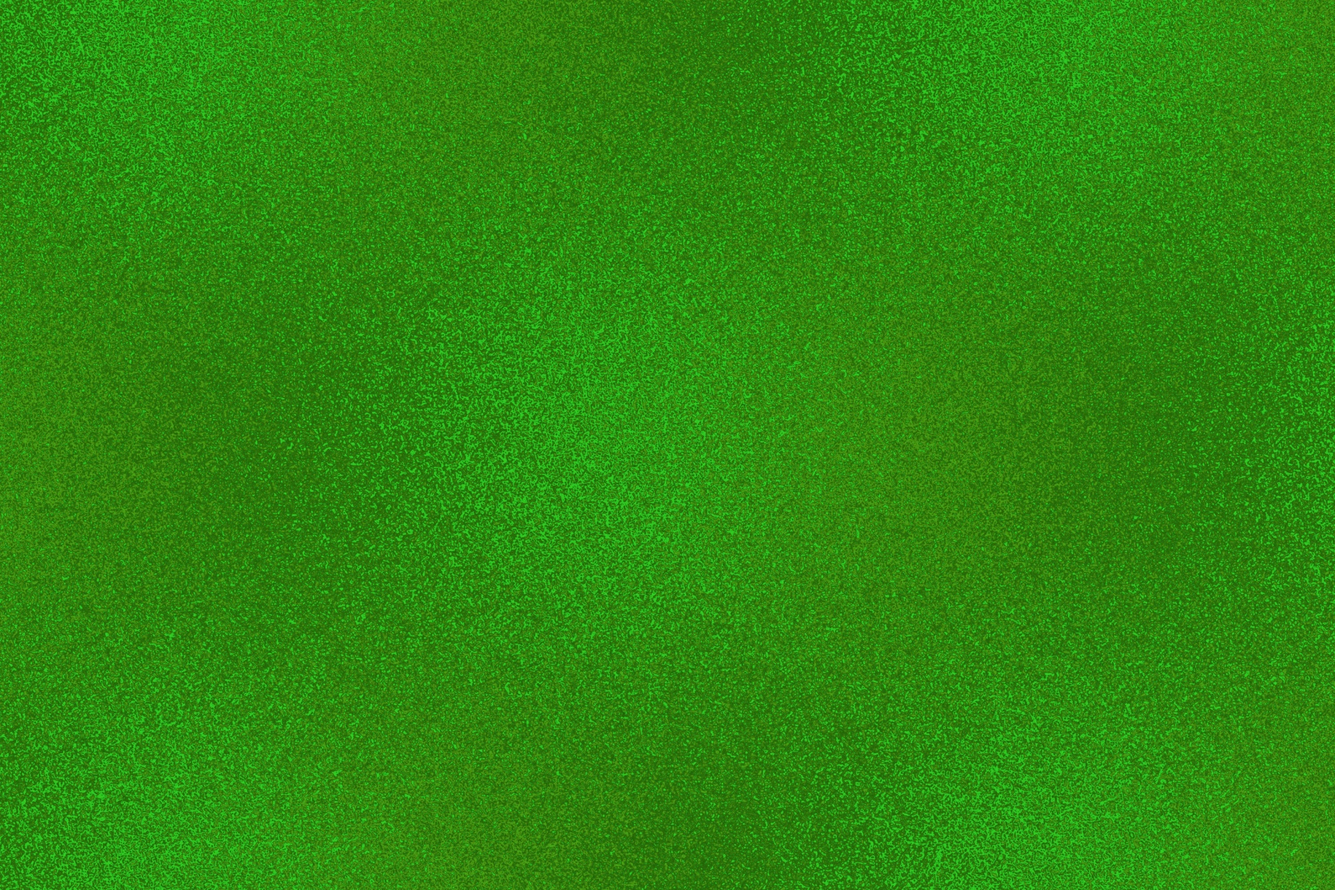
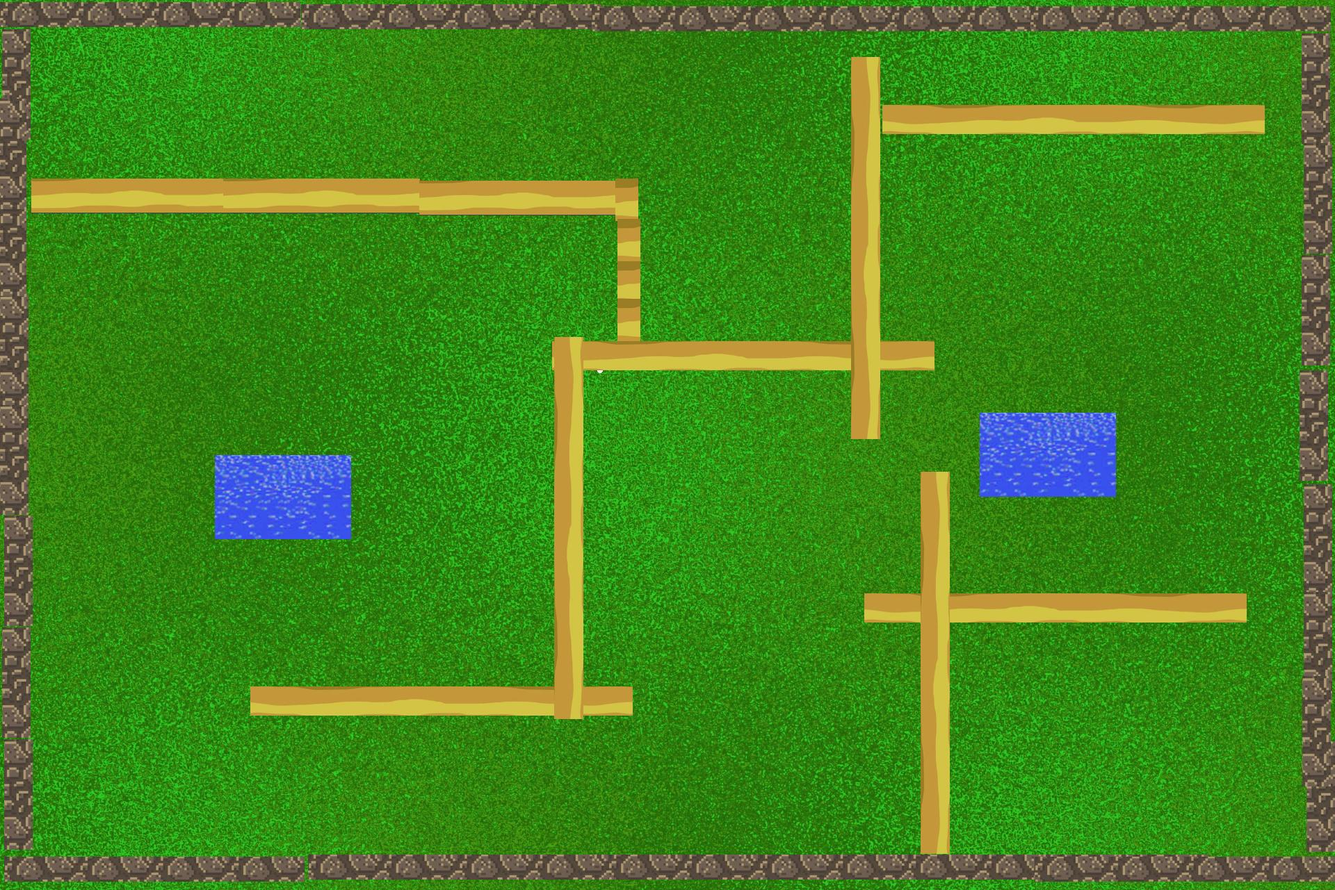
se modifica fondo, se añaden mas bloques

Changed region(s): [[0.0, 0.0, 1.0, 0.9992], [0.1562, 0.4996, 0.2812, 0.6245]]

diff --git a/main.py b/main.py
@@ -57,8 +57,6 @@ if __name__ == "__main__":
     musicaFondo = pygame.mixer.Sound('sounds/El pueblo.wav')
     musicaFondo.play(0, -1)
 
-    
-
     f = Fondo(imgFondo)
     fondos.add(f)
 
@@ -82,7 +80,7 @@ if __name__ == "__main__":
 
     #Generador
     ls_gen = [(350, 130), (500, 200), (100, 290), (350, 1100), (300,650), (990, 270), 
-                (710, 770), (1000, 900), (1600, 75), (1500, 669), (1600, 1100)]
+                (710, 770), (1000, 900), (1600, 75), (1500, 669), (1600, 900)]
     con = 0
     for p in ls_gen:
         g = Generador(con, p, mg, [1, 1], despg = 0)
@@ -103,7 +101,40 @@ if __name__ == "__main__":
         con += 1
         bloques.add(b)
 
-    ls_bloques = ([645, 10], [140, 510], [1100, 807], [570, 1150], [1610, 1130])
+    #Bloque grande
+    #---------------------------------------------------------------------------------------------------
+
+    ls_bloques = ([120, 440], [610, 1000], [900, 400], [1700, 200])
+    con = 0
+    for b in ls_bloques:
+        b = Bloques(con, b, mb, [0, 0], despb = 4)
+        con += 1
+        bloques.add(b)
+
+    ls_bloques = ([168, 440], [658, 1000], [948, 400], [1748, 200])
+    con = 0
+    for b in ls_bloques:
+        b = Bloques(con, b, mb, [1, 1], despb = 4)
+        con += 1
+        bloques.add(b)
+
+    ls_bloques = ([120, 488], [610, 1048], [900, 448], [1700, 248])
+    con = 0
+    for b in ls_bloques:
+        b = Bloques(con, b, mb, [0, 0], despb = 5)
+        con += 1
+        bloques.add(b)
+
+    ls_bloques = ([168, 488], [658, 1048], [948, 448], [1748, 248])
+    con = 0
+    for b in ls_bloques:
+        b = Bloques(con, b, mb, [1, 1], despb = 5)
+        con += 1
+        bloques.add(b)
+
+    #---------------------------------------------------------------------------------------------------
+
+    ls_bloques = ([645, 10], [350, 510], [1100, 807], [570, 1150], [1610, 1130])
     con = 0
     for b in ls_bloques:
         b = Bloques(con, b, mb, [0, 0], despb = 6)

diff --git a/personaje.py b/personaje.py
@@ -51,7 +51,7 @@ class Personaje(pygame.sprite.Sprite):
 
         self.rect.x += self.velx
         self.rect.x += self.velxx
-            
+        
         col = pygame.sprite.spritecollide(self, self.bloques, False)
         for b in col: 
             if self.velx > 0:
@@ -128,7 +128,8 @@ class Personaje(pygame.sprite.Sprite):
             else:
                 if self.rect.top < b.rect.bottom:
                     self.rect.top = b.rect.bottom
-            self.vely = 0
+            self.vely=0
+        
         
         col = pygame.sprite.spritecollide(self, self.generadores, False)
         for g in col: 

diff --git a/imagenes.py b/imagenes.py
@@ -1,7 +1,7 @@
 import pygame
 
 #Imagenes
-imgFondo = pygame.image.load('imagenes/fondoprado2.jpg')
+imgFondo = pygame.image.load('imagenes/fondoprado.jpg')
 imgPersonaje = pygame.image.load('imagenes/centauros.png')
 imgBloque = pygame.image.load('imagenes/bloques.png')
 imgGenerador = pygame.image.load('imagenes/fosa.png')

diff --git a/generador.py b/generador.py
@@ -22,7 +22,7 @@ class Generador(pygame.sprite.Sprite):
         self.vely = 0
         self.velxx = 0
         self.velyy = 0
-        self.lim = 0
+        self.lim = 4
         self.pob = 0
         self.id = id
         self.temp = 200
